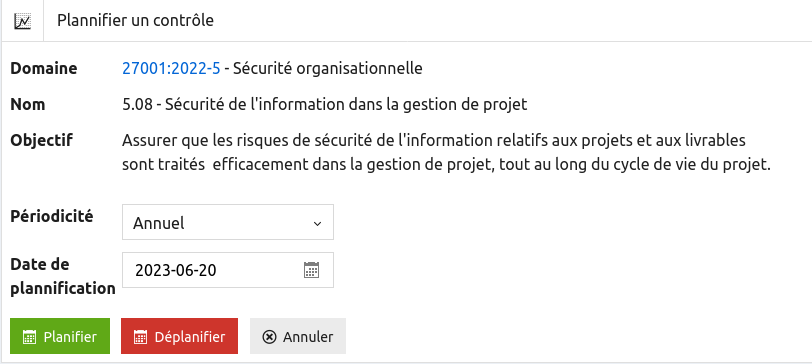
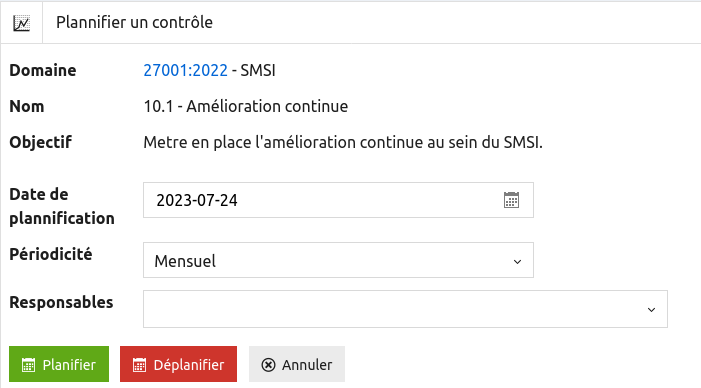
update doc

diff --git a/resources/views/measures/plan.blade.php b/resources/views/measures/plan.blade.php
@@ -41,7 +41,7 @@
 			<div class="cell-1">
 				<strong>{{ trans('cruds.control.fields.plan_date') }}</strong>
 	    	</div>
-			<div class="cell-2">
+			<div class="cell-3">
 					<input type="text" data-role="calendarpicker" name="plan_date" 
 					value="{{ $measure->planDate() }}" data-input-format="%Y-%m-%d"> 
 			</div>
@@ -51,7 +51,7 @@
 			<div class="cell-1">
 	    		<strong>{{ trans('cruds.measure.fields.periodicity') }}</strong>
 	    	</div>
-			<div class="cell-2">
+			<div class="cell-3">
 				<select name="periodicity" data-role="select">
 				    <option value="1" {{ $measure->periodicity==1 ? "selected" : ""}}>{{ trans('common.monthly') }}</option>
 				    <option value="3" {{ $measure->periodicity==3 ? "selected" : ""}}>{{ trans('common.quarterly') }}</option>

diff --git a/docs/controls.fr.md b/docs/controls.fr.md
@@ -30,7 +30,7 @@ Cet écran contient les informations d’un contrôle :
 
 * Le nom d’un contrôles ;
 
-* L’objectif du contrpole ;
+* L’objectif du contrôle ;
 
 * Les attributs ;
 
@@ -52,11 +52,34 @@ Lorsque vous cliquez sur :
 
 * « Faire », vous êtes envoyé vers l’[écran de réalisation d’un contrôle](#make)
 
-* « Planifier », vous êtes envoyé vers l’[écran de planification d’un contrôles](/deming/measures/#plan)
+* « Planifier », vous êtes envoyé vers l’[écran de planification d’un contrôles](#plan)
 
 * « Modifier », vous êtes envoyé vers l’[écran de modification du contrôles](#edit)
 
 * « Annuler », vous êtes envoyé vers la [liste des contrôles](#list)
+
+### Planifier un contrôle<a name="plan"></a>
+
+Cet écran permet de planifier un contrôle.
+
+Cet écran contient les informations d’un contrôle :
+
+* Le nom d’un contrôles ;
+
+* L’objectif du contrôle ;
+
+* La date de palnification ;
+
+* La périodicité ; et
+
+* Les responsables de la réalisation du contrôles.
+
+Lorsque vous cliquez sur :
+
+* « Plan », la date de planifierion, la récurence et les responsables sont mis à jour et vous êtres renvoyés vers l’[écran d'affichage 
+du contrôles](#show)
+
+* « Annuler », Vous êtres renvoyés vers l’[écran d'affichage du contrôles](#show)
 
 
 ### Réaliser un contrôles <a name="make"></a>

diff --git a/docs/controls.md b/docs/controls.md
@@ -60,6 +60,30 @@ When you click:
 * "Cancel", you are sent to the [list of controls](#list)
 
 
+### Schedule a control<a name="plan"></a>
+
+This screen is used to schedule a control.
+
+This screen contains the information of a control:
+
+* The name of a control;
+
+* The objective of the control;
+
+* The date of palnification;
+
+* Periodicity ; and
+
+* Those responsible for carrying out the controls.
+
+When you click:
+
+* "Plan", the planning date, the recurrence and the persons in charge are updated and you are returned to the [display screen
+of controls](#show)
+
+* "Cancel", You are returned to the [control display screen](#show)
+
+
 ### Making a <a name="make"></a> check
 
 This screen allows you to perform a security check.

diff --git a/docs/measures.fr.md b/docs/measures.fr.md
@@ -83,10 +83,11 @@ L’écran contient :
 
 * L’objectif de sécurité ;
 
-* La périodicité du contrôles ; et
+* La date de planification ;
 
-* La date de planification.
+* La périodicité du contrôles et 
 
+* Les responsable de la réalisation du contrôles.
 
 [<img src="/deming/images/plan.png" width="600">](/deming/images/plan.png)
 

diff --git a/docs/measures.md b/docs/measures.md
@@ -83,10 +83,11 @@ The screen contains:
 
 * The security objective;
 
-* The frequency of checks; And
+* The planning date; and
 
-* The planning date.
+* The frequency of checks;
 
+* Those responsible for carrying out the controls.
 
 [<img src="/deming/images/plan.png" width="600">](/deming/images/plan.png)
 
